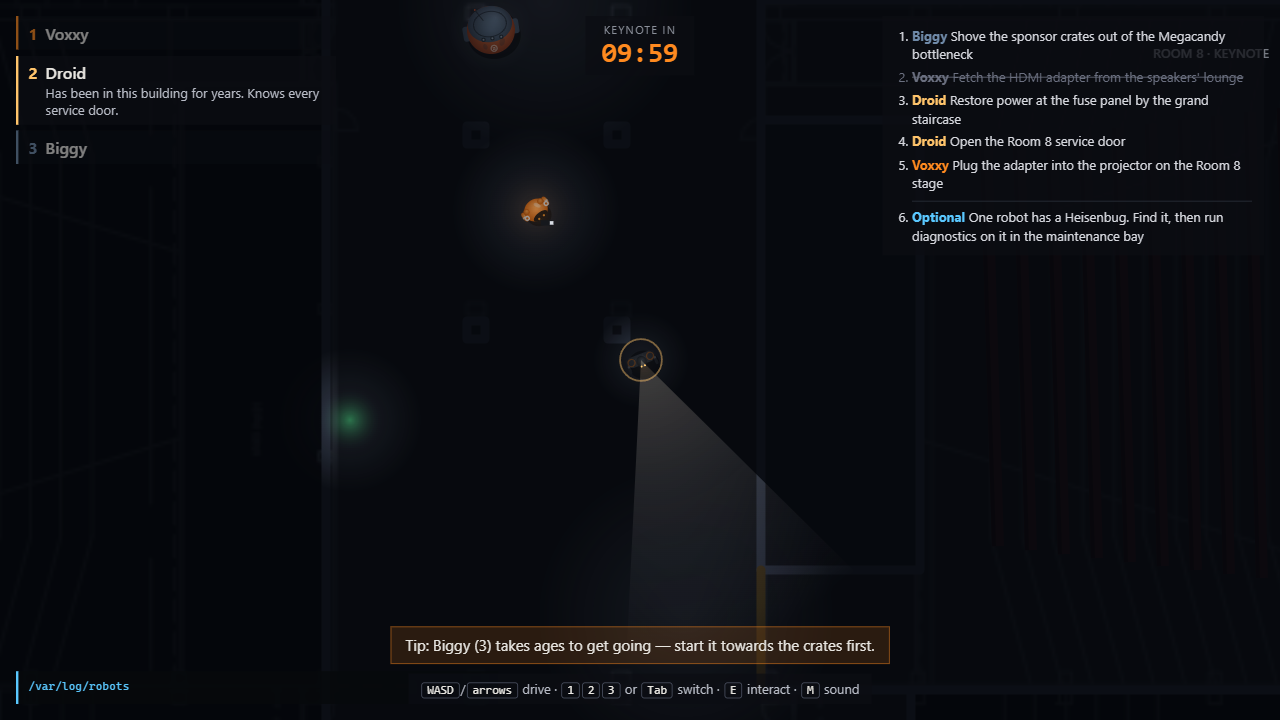
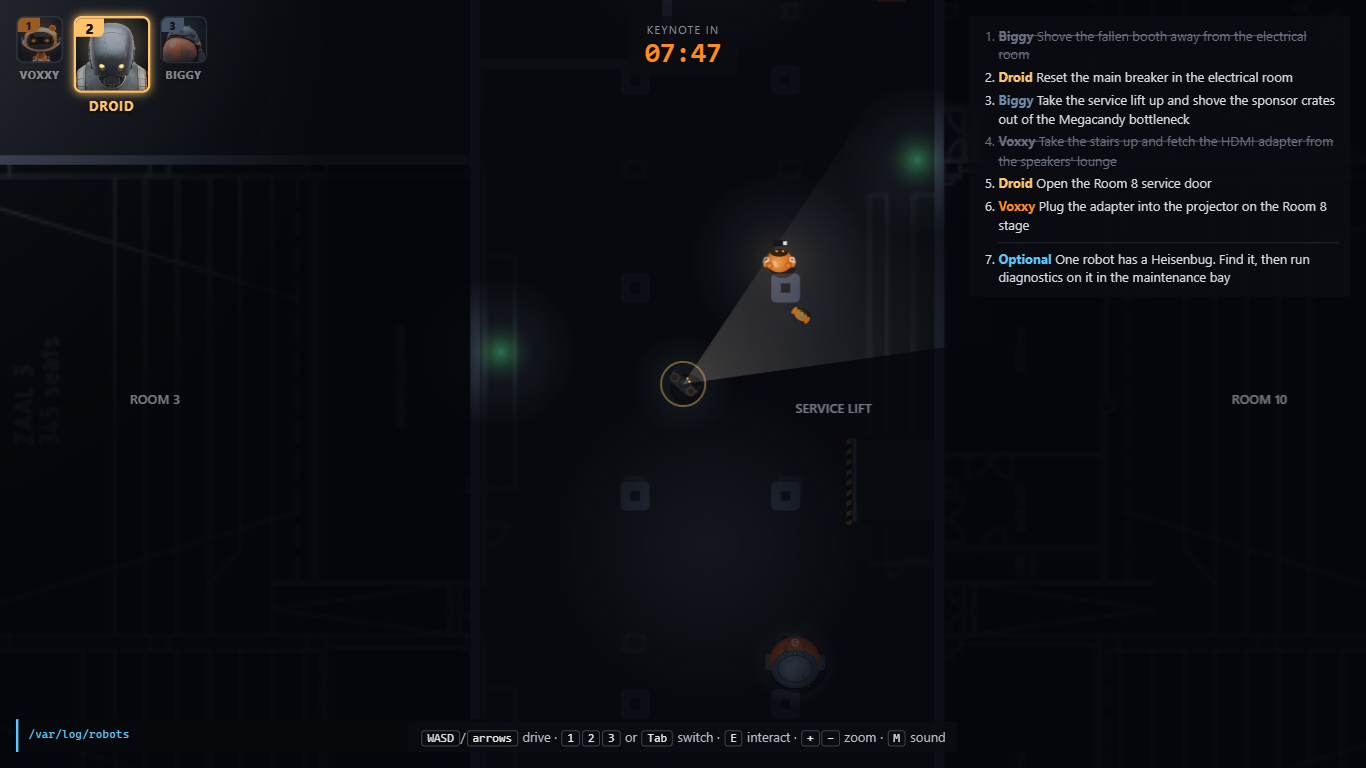
NO_TICKET: Recreate README screenshots for the current graphics

diff --git a/README.md b/README.md
@@ -6,7 +6,7 @@ The keynote in Room 8 at Kinepolis Antwerp starts in ten minutes, the power is o
 speaker's HDMI adapter is on the wrong side of the building. Three robots have to fix it together —
 and one of them has a glitch nobody has diagnosed yet.
 
-![Droid's torch in the dark central corridor, Voxxy carrying the adapter](docs/screenshot-corridor.png)
+![Droid's torch in the dark corridor upstairs, Voxxy carrying the adapter](docs/screenshot-corridor.png)
 
 ## The mission
 
@@ -27,6 +27,8 @@ ground floor:
 6. **Voxxy** carries the adapter onto the Room 8 stage. The projector starts, you win.
 
 If the clock reaches zero first, the keynote starts in the dark.
+
+![The exhibition hall: Biggy at the toppled booth in front of the electrical room, Droid lighting the way](docs/screenshot-hall.png)
 
 ### The Heisenbug
 

diff --git a/docs/GENAI.md b/docs/GENAI.md
@@ -401,3 +401,12 @@ Devoxx website are met."
   do; the exhibition hall, the cinema floor and stairs between them; playable by a newcomer with an
   opening tip and objective list; README from clone to playing; MIT LICENSE; public repository;
   GenAI use and prompts documented here.
+
+### README screenshots
+
+Prompt: "Recreate README screenshots - graphic changed."
+
+- The model staged three scenes through the `window.heisenbug()` debug hook in a headless browser
+  (1366×768), checked each image, and reframed the corridor shot so Droid's torch actually falls on
+  Voxxy: the dark corridor upstairs, Room 8 with the projector's "no signal" beam, and a new shot of
+  the exhibition hall with Biggy at the toppled booth.
